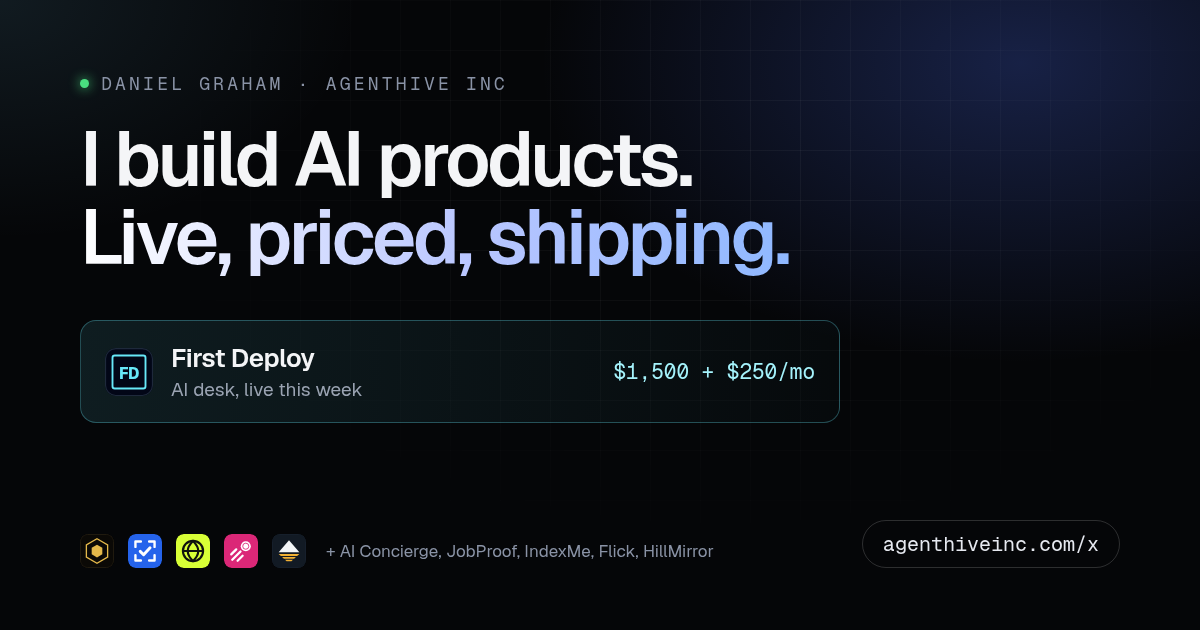
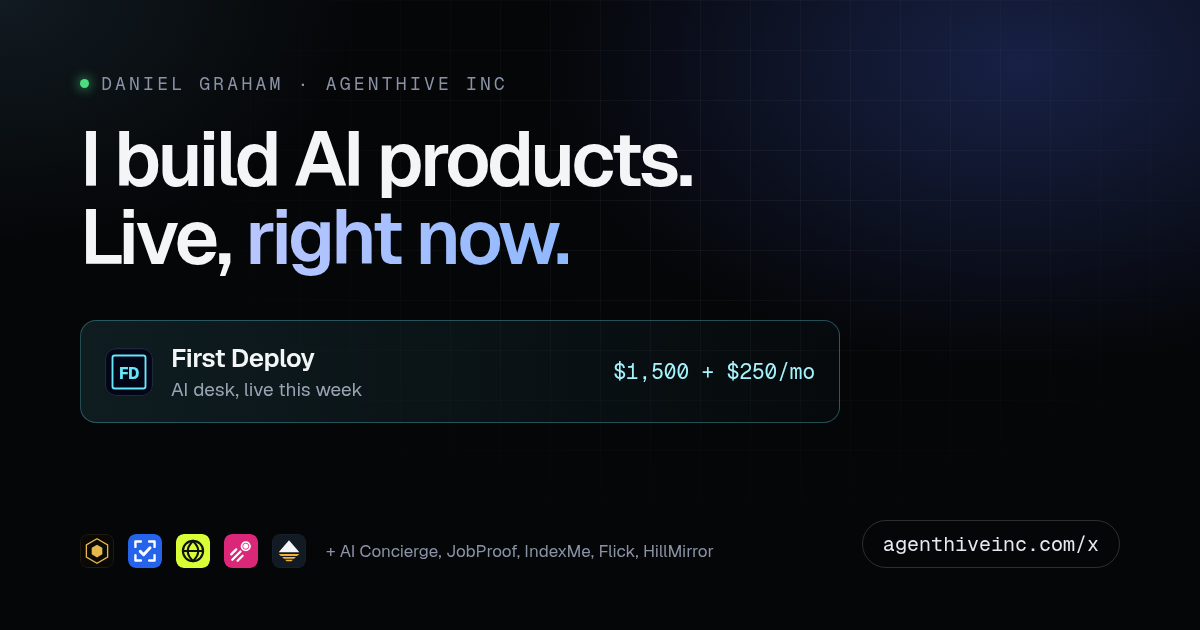
/x hub + OG card: headline 'I build AI products. / Live, right now.' (#37)

Changed region(s): [[0.185, 0.3317, 0.6783, 0.4524]]

diff --git a/corp/public/x/index.html b/corp/public/x/index.html
@@ -10,13 +10,13 @@
 <meta property="og:type" content="website">
 <meta property="og:site_name" content="AgentHive Inc">
 <meta property="og:url" content="https://agenthiveinc.com/x">
-<meta property="og:title" content="Daniel Graham — AI products, live and priced">
+<meta property="og:title" content="Daniel Graham — AI products, live right now">
 <meta property="og:description" content="First Deploy: an AI desk live this week. $1,500 setup + $250/mo. Plus AI Concierge, JobProof, IndexMe, Flick, and HillMirror.">
 <meta property="og:image" content="https://agenthiveinc.com/x/og.png">
 <meta property="og:image:width" content="1200">
 <meta property="og:image:height" content="630">
 <meta name="twitter:card" content="summary_large_image">
-<meta name="twitter:title" content="Daniel Graham — AI products, live and priced">
+<meta name="twitter:title" content="Daniel Graham — AI products, live right now">
 <meta name="twitter:description" content="First Deploy: an AI desk live this week. $1,500 setup + $250/mo.">
 <meta name="twitter:image" content="https://agenthiveinc.com/x/og.png">
 <link rel="icon" href="/favicon.svg" type="image/svg+xml">
@@ -37,7 +37,7 @@ background:radial-gradient(40px 36px at 70% 20%,rgba(76,110,245,.45),transparent
 .who b{display:block;font-size:17px;font-weight:600;letter-spacing:-.01em}
 .who span{font-family:var(--mono);font-size:12px;letter-spacing:.12em;text-transform:uppercase;color:var(--dim)}
 h1{margin:30px 0 10px;font-size:clamp(32px,8.6vw,42px);line-height:1.04;letter-spacing:-.035em;font-weight:650}
-h1 em{font-style:normal;background:linear-gradient(90deg,#fff,#B9C6FF 60%,#8FB8FF);-webkit-background-clip:text;background-clip:text;color:transparent}
+h1 em{font-style:normal;background:linear-gradient(90deg,#B9C6FF,#8FB8FF);-webkit-background-clip:text;background-clip:text;color:transparent}
 .lede{color:var(--mute);font-size:16px;line-height:1.5}
 .label{margin:34px 0 12px;font-family:var(--mono);font-size:11.5px;letter-spacing:.16em;text-transform:uppercase;color:var(--dim);display:flex;justify-content:space-between}
 .card{border:1px solid var(--line);border-radius:16px;background:var(--card);padding:18px;margin-bottom:12px;backdrop-filter:blur(6px);-webkit-backdrop-filter:blur(6px)}
@@ -84,7 +84,7 @@ footer a:hover{color:var(--ink)}
   <div class="who"><b>Daniel Graham</b><span>AgentHive Inc · Palm Coast, FL</span></div>
 </header>
 
-<h1>I build AI products.<br><em>Live, priced, shipping.</em></h1>
+<h1>I build AI products.<br>Live, <em>right now.</em></h1>
 <p class="lede">Pick the one that fits. Every button below opens a live checkout or the product's own plan page.</p>
 
 <div class="label"><span>Start here</span><span>01</span></div>
